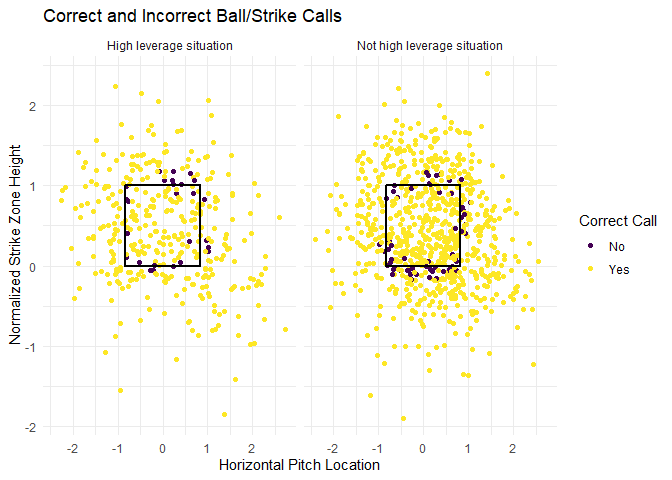
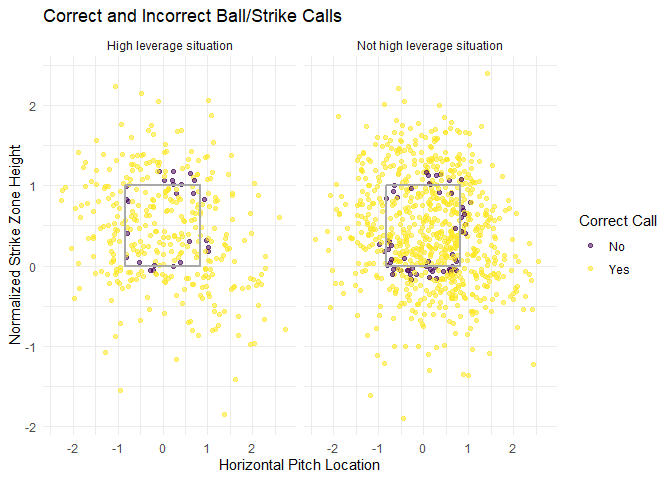
read me update

diff --git a/README.md b/README.md
@@ -1,4 +1,5 @@
-# Untitled
+# Umpire Accuracy in the Biggest Moments: Looking at the 2025 World
+Series
 
 
 ``` r
@@ -74,7 +75,7 @@ Key variables used in this analysis include:
 - `sz_top` and `sz_bot`: batter-specific strike zone boundaries  
 - `balls` and `strikes`: count  
 - `inning`, `home_score`, and `away_score`: game situation  
-- `des`: umpire call description  
+- `description`: umpire call description  
 - `abs_call`,`ump_call`,`correct_call`: Created variables
 
 The data was filtered to only include taken pitches that were called
@@ -162,11 +163,11 @@ similar to the regular-season average, but sometimes can see a drop.
 
 ``` r
 ggplot(clean_data, aes(x = plate_x, y = z_norm, color = correct_call)) +
-  geom_point(position = "jitter") +
+  geom_point(position = "jitter", alpha = 0.55) +
   geom_rect(
     xmin = -0.83, xmax = 0.83,
     ymin = 0, ymax = 1,
-    fill = NA, color = "black", linewidth = 1
+    fill = NA, color = "darkgrey", linewidth = 1
   ) +
   theme_minimal() +
   scale_color_viridis_d() +
